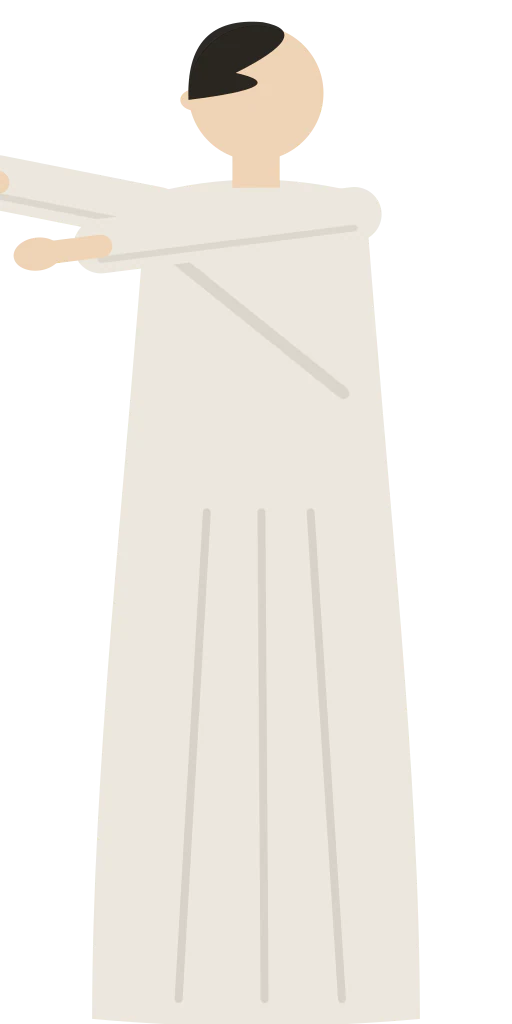
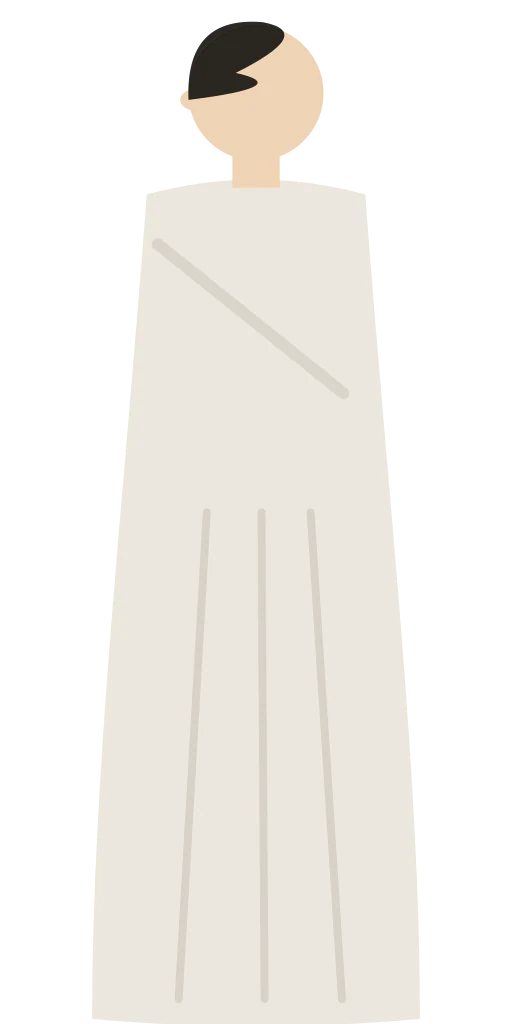
feature(scene): add the gardener and the docking chapter title
Bring in the gardener pruning the young tree, fly the large chapter title up
into the top-left corner and show the fit text.

Changed region(s): [[0.0, 0.1562, 0.3125, 0.2812], [0.6875, 0.1562, 0.75, 0.25]]

diff --git a/src/components/stage/prune-art.tsx b/src/components/stage/prune-art.tsx
@@ -1,0 +1,40 @@
+"use client";
+
+import { useMotionValue, useTransform } from "motion/react";
+
+import { Plate } from "./plate";
+import { armLean, shearsClosed, trimmedScale } from "./prune-plan";
+import type { SceneArtProps } from "./scene-layers";
+import { useStageProgress } from "./stage-context";
+
+/**
+ * Scene 9, the gardener (`prune-plan.ts`, timings in `PRUNE`): blue sky, a minaret-like column with
+ * the white marble urn and the young orange tree (small idle sway from the manifest), and the
+ * gardener beside it. His arms are two frames, open and closed shears, cross-faded by progress so
+ * the shears snip as he trims and reverse exactly. The rising dust that opens the scene is the
+ * `dust` transition; the title and the fit text are DOM beats.
+ */
+export function PruneArt({ scene }: SceneArtProps) {
+  void scene;
+  const stage = useStageProgress();
+  const none = useMotionValue(0);
+  const progress = stage ?? none;
+
+  const closed = useTransform(progress, shearsClosed);
+  const lean = useTransform(progress, armLean);
+  const branch = useTransform(progress, trimmedScale);
+
+  return (
+    <>
+      <Plate id="hero/sky" />
+      <Plate id="prune/column" />
+      <Plate id="prune/urn" />
+      <Plate id="prune/tree" />
+      <Plate id="prune/branch-left" scale={branch} />
+      <Plate id="prune/branch-right" />
+      <Plate id="prune/gardener" />
+      <Plate id="prune/gardener-arms-1" rotate={lean} layer={1} />
+      <Plate id="prune/gardener-arms-2" rotate={lean} opacity={closed} layer={2} />
+    </>
+  );
+}

diff --git a/src/components/stage/prune-plan.test.ts b/src/components/stage/prune-plan.test.ts
@@ -1,0 +1,35 @@
+import { describe, expect, it } from "vitest";
+
+import { PRUNE } from "@/scroll/script";
+
+import { shearsClosed, trimmedScale } from "./prune-plan";
+
+describe("prune plan", () => {
+  it("has the shears open before and after the trim", () => {
+    expect(shearsClosed(PRUNE.trim[0] - 0.001)).toBe(0);
+    expect(shearsClosed(PRUNE.trim[1] + 0.001)).toBe(0);
+  });
+
+  it("closes and opens several times and stays in range", () => {
+    let closes = 0;
+    let prev = 0;
+    for (let i = 0; i <= 2000; i++) {
+      const v = shearsClosed(PRUNE.trim[0] + ((PRUNE.trim[1] - PRUNE.trim[0]) * i) / 2000);
+      expect(v).toBeGreaterThanOrEqual(0);
+      expect(v).toBeLessThanOrEqual(1);
+      if (v > 0.99 && prev <= 0.99) closes++;
+      prev = v;
+    }
+    expect(closes).toBe(PRUNE.snips);
+  });
+
+  it("is a pure function of progress", () => {
+    expect(shearsClosed(PRUNE.trim[0] + 0.01)).toBe(shearsClosed(PRUNE.trim[0] + 0.01));
+  });
+
+  it("shortens the branch a little", () => {
+    expect(trimmedScale(0)).toBe(1);
+    expect(trimmedScale(PRUNE.trim[1])).toBeLessThan(1);
+    expect(trimmedScale(PRUNE.trim[1])).toBeGreaterThan(0.8);
+  });
+});

diff --git a/src/components/stage/prune-plan.ts b/src/components/stage/prune-plan.ts
@@ -1,0 +1,26 @@
+import { ease, remap } from "@/lib/progress";
+import { PRUNE } from "@/scroll/script";
+
+/**
+ * Scene 9, the gardener, as pure functions of progress (no React, no three). Timings live in
+ * `PRUNE` (`src/scroll/script.ts`). The shears close and open as he trims (scrubbed, so they
+ * reverse exactly), and the left branch comes in a little shorter as the tree is shaped.
+ */
+
+/** How closed the shears are, 0 (open) to 1 (closed): `PRUNE.snips` smooth snips over the trim. */
+export function shearsClosed(p: number): number {
+  if (p <= PRUNE.trim[0] || p >= PRUNE.trim[1]) return 0;
+  const t = remap(p, PRUNE.trim[0], PRUNE.trim[1]);
+  const wave = Math.sin(t * PRUNE.snips * Math.PI * 2 - Math.PI / 2) * 0.5 + 0.5; // 0 at the ends
+  return ease(Math.min(1, wave * 1.4));
+}
+
+/** Scale of the side branch he trims: 1 before, a little less after. */
+export function trimmedScale(p: number): number {
+  return 1 - 0.14 * ease(remap(p, PRUNE.trim[0] + (PRUNE.trim[1] - PRUNE.trim[0]) * 0.2, PRUNE.trim[1]));
+}
+
+/** A small lean of the arms with each snip, in radians. */
+export function armLean(p: number): number {
+  return -0.03 * shearsClosed(p);
+}

diff --git a/src/scroll/script.ts b/src/scroll/script.ts
@@ -623,6 +623,18 @@ export const SITE = {
   end: DUST_COVERED,
 } as const;
 
+/**
+ * The gardener's timings (progress). `src/components/stage/prune-plan.ts` choreographs on these: he
+ * trims while the title docks and the fit text arrives (`trim`, `snips` open-and-close cycles of the
+ * shears), and the left branch comes in a little shorter as he shapes the tree.
+ */
+export const PRUNE = {
+  /** The shears work. */
+  trim: [at("prune", 0.1), at("prune", 0.85)] as ProgressRange,
+  /** How many times the shears close and open over `trim`. */
+  snips: 7,
+} as const;
+
 export const CAMERA: readonly CameraKey[] = [
   // Hero: wide and still.
   key("hero", at("hero", 0), "hold", HERO_WIDE, [0, 0, 0], 35),

diff --git a/src/components/stage/scene-layers.tsx b/src/components/stage/scene-layers.tsx
@@ -15,6 +15,7 @@ import { BlueprintArt } from "./blueprint-art";
 import { GraftArt } from "./graft-art";
 import { HeroArt } from "./hero-art";
 import { Plate } from "./plate";
+import { PruneArt } from "./prune-art";
 import { PluckArt } from "./pluck-art";
 import { mountedScenes, scenePresence } from "./presence";
 import { ShareArt } from "./share-art";
@@ -47,6 +48,7 @@ export const SCENE_ART: Partial<Record<SceneId, React.ComponentType<SceneArtProp
   work: WorkArt,
   blueprint: BlueprintArt,
   site: SiteArt,
+  prune: PruneArt,
 };
 
 const SCENE_IDS: readonly SceneId[] = SCENES.map((s) => s.id);
